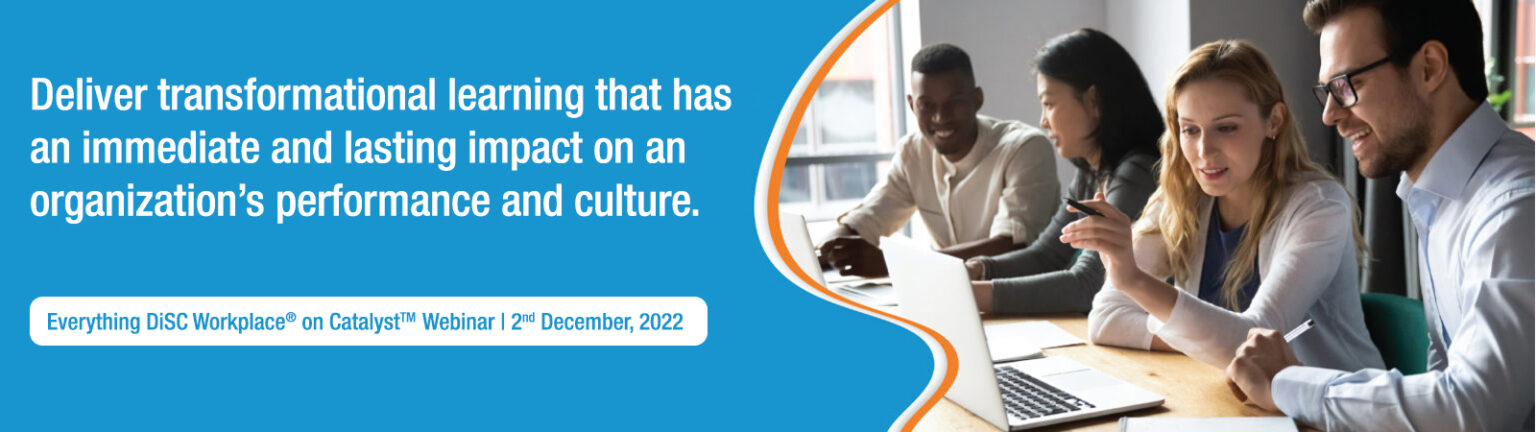
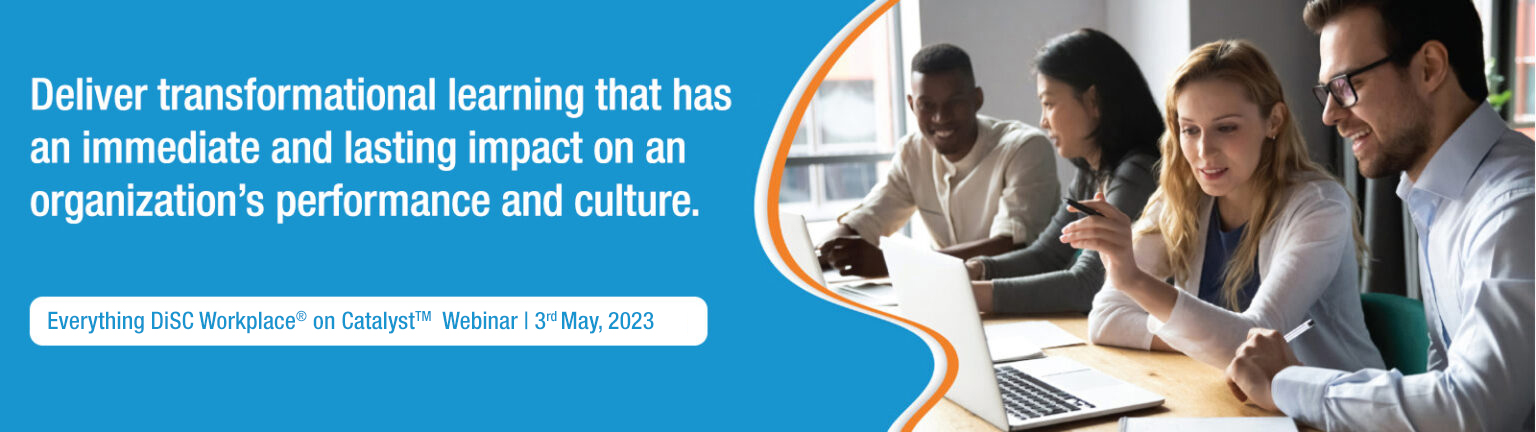
ddasd

Changed region(s): [[0.0312, 0.7222, 0.4688, 0.7824]]

diff --git a/pages/fivebehaviors/landing.js b/pages/fivebehaviors/landing.js
@@ -1,0 +1,239 @@
+import Head from 'next/head'
+import Link from 'next/link'
+import Slider from "react-slick";
+
+
+export default function FIveBgenriclp() {
+
+    const FiveBgSubmit = async event => {
+        event.preventDefault()
+        document.getElementById("submitbuttonform").value = "Submitting form...."
+        const xhttp = new XMLHttpRequest();
+        xhttp.onload = function () {
+            console.log(this.responseText);
+        }
+        xhttp.open("Post", 'https://ajrkhan.xyz/everythingdisc/wp-json/contact-form-7/v1/contact-forms/284/feedback');
+        xhttp.setRequestHeader("Content-Type", "application/x-www-form-urlencoded;");
+        xhttp.onreadystatechange = function () {
+            if (xhttp.readyState == 4) {
+                if (xhttp.status == 200) {
+                    document.getElementById("contactForm").reset();
+                    document.getElementById("showlabel").innerHTML = "Thank you for submitting your details. Our subject matter experts will connect you within 24 working hours.";
+                    document.getElementById("showlabel").style.display = "block";
+                    setTimeout(function () {
+                        window.location.href = "/fivebehaviors/thank-you"
+                    }, 3000);
+
+                } else {
+                    alert('There was a problem with the request.');
+                }
+            }
+        };
+        xhttp.send("leadsquared-FirstName=" + event.target.name.value +
+            "&leadsquared-EmailAddress=" + event.target.email.value +
+            "&leadsquared-Mobile=" + event.target.phone.value +
+            "&leadsquared-Company=" + event.target.Organization.value +
+            "&leadsquared-JobTitle=" + event.target.designation.value +
+            "&ReferredBy=" + event.target.intrestin.value +
+            "&leadsquared-mx_Business_Entity=" + event.target.leadsquared_mx_Business_Entity.value)
+
+    }
+
+    var settings = {
+        dots: true,
+        arrows: false,
+        infinite: true,
+        speed: 500,
+        slidesToShow: 5,
+        slidesToScroll: 5,
+        initialSlide: 0,
+        autoplay: false,
+        autoplaySpeed: 3000,
+        responsive: [
+            {
+                breakpoint: 1024,
+                settings: {
+                    slidesToShow: 3,
+                    slidesToScroll: 3,
+                    infinite: true,
+                    dots: true
+                }
+            },
+            {
+                breakpoint: 600,
+                settings: {
+                    slidesToShow: 2,
+                    slidesToScroll: 2,
+                    initialSlide: 2
+                }
+            },
+            {
+                breakpoint: 480,
+                settings: {
+                    slidesToShow: 2,
+                    slidesToScroll: 2
+                }
+            }
+        ]
+    };
+
+
+
+    return (
+        <>
+            <Head>
+                <title>Five Behaviors landing page - Five Behaviors</title>
+                <meta name="description" content="Learn to Unlock the Full Potential and Effectiveness of Your Teams" />
+            </Head>
+
+            <div className="genericlpc ptt-50 pbb-50">
+                <div className="container custom">
+                    <div className="row y-middle">
+                        <div className="col-md-7 col-sm-12">
+                            <div className="content-wrap">
+                                <h2 className="colorw">Learn to Unlock the Full Potential and Effectiveness of Your Teams</h2>
+                                <h3 className="colorw">Utilize the insights of The Five Behaviors<sup>®</sup> team development model.</h3>
+                            </div>
+                        </div>
+                        <div className="col-md-5 col-sm-12">
+                            <div className="bannerform">
+                                <p className='mbb-10'>Want to improve teamwork and collaboration? We are here to help.</p>
+                                <form id="contactForm" className='clientcornner' onSubmit={FiveBgSubmit}>
+                                    <div className="row">
+                                        <div className="col-md-6 mb-12">
+                                            <input type="text" name="name" placeholder="Your Name*" required />
+                                        </div>
+                                        <div className="col-md-6 mb-12">
+                                            <input type="text" name="email" placeholder="Your Email*" required />
+                                        </div>
+                                        <div className="col-md-6 mb-12">
+                                            <input type="text" name="phone" maxlength="10" minlength="10" pattern="[0-9]*" placeholder="Phone No.*" required />
+                                        </div>
+                                        <div className="col-md-6 mb-12">
+                                            <input type="text" name="Organization" placeholder="Organization*" required />
+                                        </div>
+
+                                        <div className="col-md-12 mb-12">
+                                            <input type="text" name="designation" placeholder="Designation*" required/>
+                                        </div>
+                                        <div className="col-md-12 mb-12">
+                                            <select name="intrestin">
+                                                <option value="">Referred By</option>
+                                                <option value="Email">Email</option>
+                                                <option value="Social Media">Social Media</option>
+                                                <option value="Google Search">Google Search</option>
+                                                <option value="Website">Website</option>
+                                            </select>
+                                        </div>
+
+                                        <div className="col-md-6 mb-12 d-none">
+                                            <input type="text" name="leadsquared_mx_Business_Entity" value="The Five Behaviors" required />
+                                        </div>
+
+                                        <div className="col-lg-12 mb-12">
+                                            <input id='submitbuttonform' className="clientcornnerbtn" type="submit" value="Speak to our Expert" />
+                                        </div>
+                                        <p id="showlabel" style={{ display: "none" }}></p>
+                                    </div>
+                                </form>
+                            </div>
+                        </div>
+                    </div>
+                </div>
+            </div>
+
+            <div className="rs-about style4 bg21 pt-50 pb-50 md-pt-70 md-pb-70 mbgcv">
+                <div className="container">
+                    <div className="row y-middle">
+                        <div className="col-lg-7">
+                            <div className="sec-title3">
+
+                                <div className="desc pb-17">
+                                    The tried and tested The Five Behaviors<sup>®</sup> team development model is based on the best-selling book of Patrick Lencioni- The Five Dysfunctions of a Team. The program comprises the key components- Trust, Conflict, Commitment, Accountability, and Results for creating a high-performing team. The Five Behaviors<sup>®</sup> focuses on optimizing contribution to team development, improving decision-making, and building an accountable team for optimum results.
+                                </div>
+                            </div>
+                        </div>
+                        <div className="col-lg-5">
+                            <div className="about-img">
+                                <img src="/5bassets/img/dysfunctions.png" alt="images" />
+                            </div>
+                        </div>
+                    </div>
+                </div>
+            </div>
+
+
+
+
+            <div className="rs-about style2 clientcornnerlogo ptt-20">
+                <div className="container">
+                    <div className="row">
+                        <div className="col-sm-12">
+                            <div className="pb-50">
+                                <div className="sec-title3 mbb-35">
+                                    <h4 className="countertoph2 text-center font30">Our Clients</h4>
+                                    <div className="heading-border-line center-style"></div>
+                                </div>
+                                <Slider {...settings}>
+
+                                    <div className='logoslider'>
+                                        <img src="/5bassets/img/logos/c1.jpg" />
+                                    </div>
+
+                                    <div className='logoslider'>
+                                        <img src="/5bassets/img/logos/c2.jpg" />
+                                    </div>
+
+                                    <div className='logoslider'>
+                                        <img src="/5bassets/img/logos/c3.jpg" />
+                                    </div>
+
+                                    <div className='logoslider'>
+                                        <img src="/5bassets/img/logos/c4.jpg" />
+                                    </div>
+
+                                    <div className='logoslider'>
+                                        <img src="/5bassets/img/logos/c5.jpg" />
+                                    </div>
+
+                                    <div className='logoslider'>
+                                        <img src="/5bassets/img/logos/c6.jpg" />
+                                    </div>
+
+                                    <div className='logoslider'>
+                                        <img src="/5bassets/img/logos/c7.jpg" />
+                                    </div>
+
+                                    <div className='logoslider'>
+                                        <img src="/5bassets/img/logos/c8.jpg" />
+                                    </div>
+
+                                    <div className='logoslider'>
+                                        <img src="/5bassets/img/logos/c9.jpg" />
+                                    </div>
+
+                                    <div className='logoslider'>
+                                        <img src="/5bassets/img/logos/c10.jpg" />
+                                    </div>
+
+                                    <div className='logoslider'>
+                                        <img src="/5bassets/img/logos/c11.jpg" />
+                                    </div>
+
+                                    <div className='logoslider'>
+                                        <img src="/5bassets/img/logos/c12.jpg" />
+                                    </div>
+
+                                    <div className='logoslider'>
+                                        <img src="/5bassets/img/logos/c13.jpg" />
+                                    </div>
+
+                                </Slider>
+                            </div>
+                        </div>
+                    </div>
+                </div>
+            </div>
+        </>
+    )
+}

diff --git a/pages/everythingdisc/everything-disc-workplace-on-catalyst-webinar.js b/pages/everythingdisc/everything-disc-workplace-on-catalyst-webinar.js
@@ -111,7 +111,7 @@ export default function EverythingDiSCWorkplace(){
                                         <div className="col-sm-6 mb-12">
                                             <select name="slot" required>
                                                 <option value="">Pick up any Slot*</option>
-                                                <option value="December 2nd, 2022 Everything DiSC Workplace on Catalyst Webinar">December 2nd, 2022 Everything DiSC Workplace on Catalyst Webinar</option>
+                                                <option value="May 13th, 2023 Everything DiSC Workplace on Catalyst Webinar">May 13th, 2023 Everything DiSC Workplace on Catalyst Webinar</option>
                                             </select>
                                         </div>
                                         <div className="col-sm-6 mb-12">

diff --git a/public/5bassets/css/globals.css b/public/5bassets/css/globals.css
@@ -575,7 +575,7 @@
                 margin: 0px;
               }
               .clientcornnerbtn{
-                width: 120px !important;
+                width: 149px !important;
                 background: #3373ae;
                 color: #fff !important;
                 border: 0px !important;
@@ -911,4 +911,16 @@ margin-bottom: 5px;
     margin-top: -7px !important;
 }
 }
+
+
+
+.genericlpc {
+  background: url(/5bassets/img/banner/genericlpc.jpg);
+  background-position: center;
+  background-repeat: no-repeat;
+  background-size: cover;
+}
    
+.mbgcv{
+  background: #fff8f9;
+}
